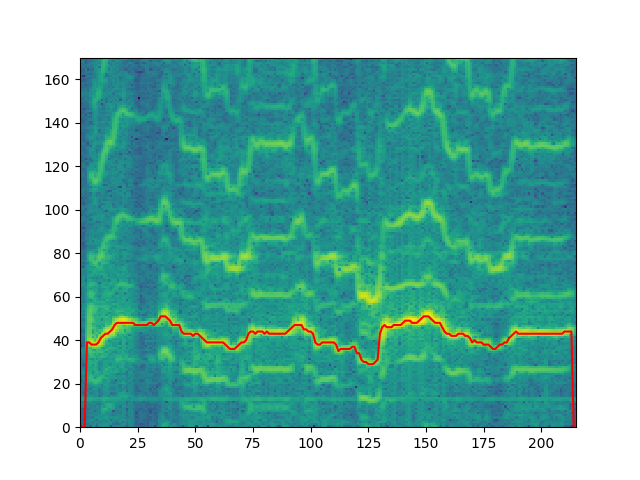
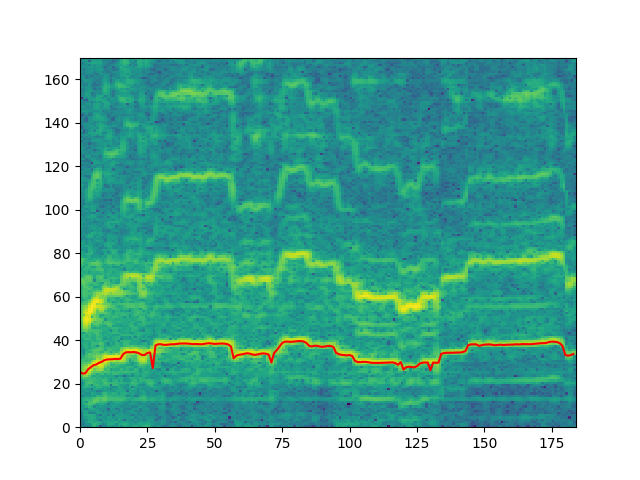
changes

Changed region(s): [[0.125, 0.125, 0.9062, 0.9375], [0.375, 0.9062, 0.4062, 0.9375]]

diff --git a/utilities.py b/utilities.py
@@ -19,11 +19,14 @@ def extract_melody(spectrogram):
 
     for frame in range(len(spectrogram)):
         smoothed_spectrum = savgol_filter(spectrogram[frame], window_length=15, polyorder=5)
+
+        #if max(smoothed_spectrum) < -25:
+         #   continue
         
         interpolated_peak = 0
         
         index = start_index
-        while index < len(smoothed_spectrum) - 1:  
+        while index < 55:  
             if smoothed_spectrum[index] < -25: 
                 index += 1
                 continue
@@ -34,18 +37,22 @@ def extract_melody(spectrogram):
                 
                 current_peak = np.argmax(segment)
 
-                start_index = current_peak - 5
+                if current_peak < 45:
+                    start_index = current_peak - 5
+                else:
+                    start_index = 20
 
                 center_value = spectrogram[frame][current_peak]
                 left_value = spectrogram[frame][current_peak - 1]
                 right_value = spectrogram[frame][current_peak + 1]
                 interpolated_peak = current_peak + 0.5 * (left_value - right_value) / (left_value - 2 * center_value + right_value)
 
+                peaks.append(interpolated_peak)
+
                 break                
             else:
                 index += 1
-
-        peaks.append(interpolated_peak)
+        
 
     return np.array(peaks)
 
@@ -131,7 +138,7 @@ def stft(signal, sample_rate, window_size=8191, fft_buffer_size=8192, hop_length
     rms_values = np.sqrt(np.sum(frames**2, axis=1) / window_size)
 
     # Filter frames based on RMS threshold
-    valid_frames = frames[rms_values > 0.002]
+    valid_frames = frames[rms_values > 0.05]
 
     # Normalize valid frames
     max_abs_amplitude = np.max(np.abs(valid_frames))

diff --git a/app.py b/app.py
@@ -8,6 +8,8 @@ from pymongo.server_api import ServerApi
 import numpy as np
 from fastdtw import fastdtw
 
+import matplotlib.pyplot as plt
+
 import utilities as utils
 
 load_dotenv()
@@ -42,13 +44,13 @@ def process():
     #plt.plot(interpolated_peaks, c='r')
     #plt.savefig('plot.png')
 
-    interpolated_peaks = utils.extract_melody(spectrogram)
+    peaks = utils.extract_melody(spectrogram)
 
-    fundamental_frequencies = interpolated_peaks * sample_rate / 8192
+    fundamental_frequencies = peaks * sample_rate / 8192
 
     #plt.pcolormesh(spectrogram.T)
     #plt.plot(spectrogram[50])
-    #plt.plot(interpolated_peaks, c='r')
+    #plt.plot(peaks, c='r')
     #plt.savefig('plot.png')
 
     #return send_file('plot.png')
@@ -57,8 +59,8 @@ def process():
 
     input_melody = input_melody - np.mean(input_melody)
 
-    window_length = int(1.2 * len(input_melody))
-    hop_length = len(input_melody) // 8
+    window_length = int(1.12 * len(input_melody))
+    hop_length = len(input_melody) // 12
 
     max_similarity = -np.inf
     for document in collection.find():
@@ -71,9 +73,17 @@ def process():
             window = current_melody[window_index: window_index + window_length]
             window = window - np.mean(window)
 
-            distance = fastdtw(input_melody, window)[0]
+            distance, path = fastdtw(input_melody, window)
 
-            min_distance = min(distance, min_distance)
+            x, y = zip(*path)
+
+            distances = []
+            for i, j in zip(x, y):
+                distances.append(abs(input_melody[i] - window[j]))
+
+            standard_deviation = np.std(distances)
+
+            min_distance = min(5 * distance + 1 * standard_deviation, min_distance)
 
             window_index += hop_length
 
